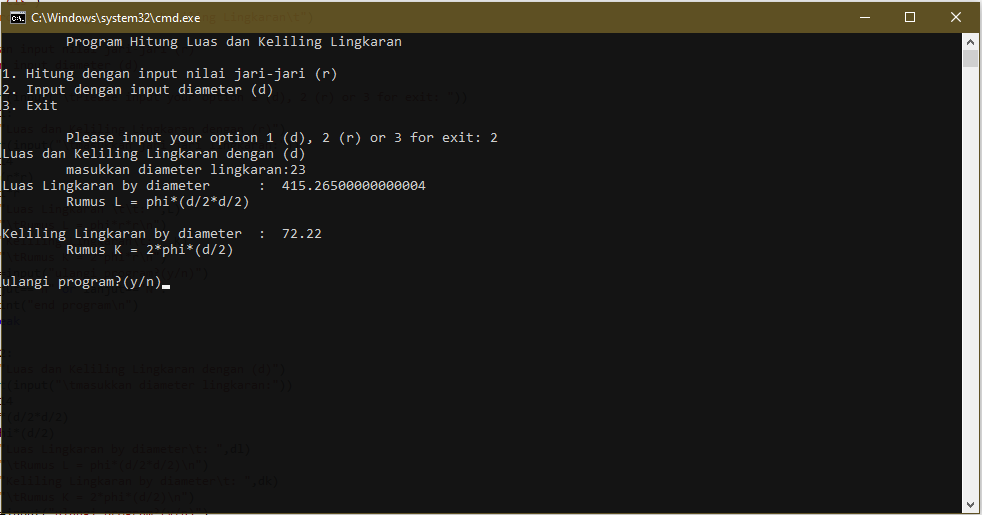
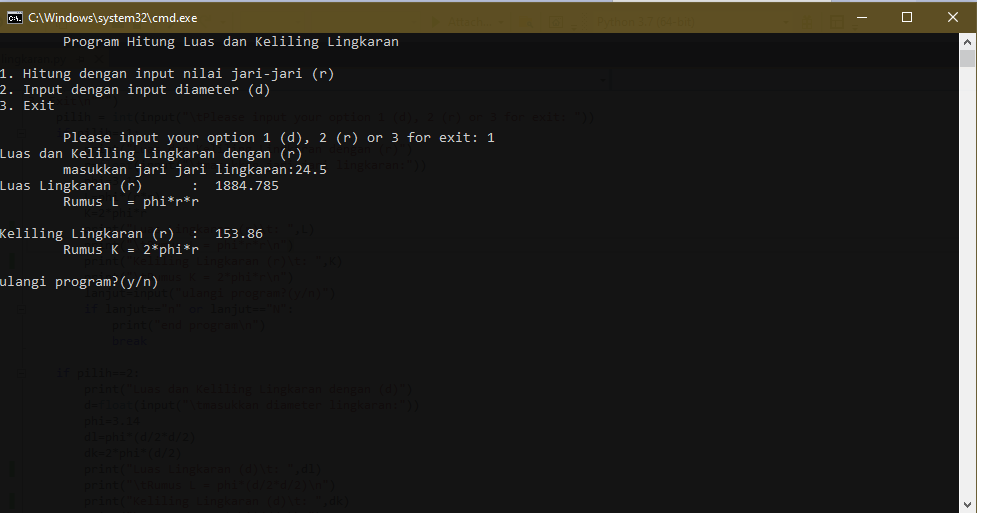
perubahan

diff --git a/README.md b/README.md
@@ -7,17 +7,19 @@
 <p align="center">
 </p>
 
-- TOOLS
-<b>Visual Studio Code<b><P>
-<b>Python 3.10<b><P>
-<b>Windows 10 with 1 TB HDD 8 GB RAM<b><p>
+1. <b>TOOLS<b><p>
+- <b>Visual Studio Code<b><P>
+- <b>Python 3.10<b><p>
+- <b>Windows 10 with 1 TB HDD 8 GB RAM<b><p>
+- <b>Microsoft Visual Studio<b><p>
 
  Rumus Luas Lingkaran phi*r*r atau phi*(d/2)*(d/2)<p>
  Rumus Keliling Lingkaran 2*phi*r atau 2*phi*(d/2)<p>
 
 Program ini berjalan apabila user sudah memilih angka 1,2 atau 3 (keluar program) untuk mulai memanggil program untuk menghitung luas dan keliling lingkaran berdasarkan jari-jari dan diameter lingkaran.<p>
+</p>
 
-- <b>Flowchart<b><p>
+2. <b>Flowchart<b><p>
 
 <b>Flowchart atau cara kerja pemanggilan program sebagai berikut:<b><p>
 
@@ -25,7 +27,7 @@ Program ini berjalan apabila user sudah memilih angka 1,2 atau 3 (keluar program
 <img src="https://github.com/ariandto/program_Luaskelilinglingkaran/blob/main/pic/sc12.png"/>
 </p>
 
-Source kode<p>
+3. <b>Source code<b><p>
 
 ```
 while True:
@@ -43,9 +45,9 @@ while True:
         phi=3.14
         L=phi*(r*r)
         K=2*phi*r
-        print("Luas Lingkaran \t\t: ",L)
+        print("Luas Lingkaran (r)\t: ",L)
         print("\tRumus L = phi*r*r\n")
-        print("Keliling Lingkaran\t: ",K)
+        print("Keliling Lingkaran (r)\t: ",K)
         print("\tRumus K = 2*phi*r\n")  
         lanjut=input("ulangi program?(y/n)")
         if lanjut=="n" or lanjut=="N":
@@ -58,9 +60,9 @@ while True:
         phi=3.14
         dl=phi*(d/2*d/2)
         dk=2*phi*(d/2)
-        print("Luas Lingkaran by diameter\t: ",dl)
+        print("Luas Lingkaran (d)\t: ",dl)
         print("\tRumus L = phi*(d/2*d/2)\n")
-        print("Keliling Lingkaran by diameter\t: ",dk)
+        print("Keliling Lingkaran (d)\t: ",dk)
         print("\tRumus K = 2*phi*(d/2)\n")
         lanjut=input("ulangi program?(y/n)")
         if lanjut=="n" or lanjut=="N":
@@ -72,39 +74,41 @@ while True:
                 print("exit.....")
                 break
 ```
-- Tampilan Program yang sudah dipanggil
+4. <b>Tampilan Program<b><p>
 
+- Menu user untuk menghitung luas dan keliling lingkaran dengan (r) atau (d) 
 <p align="center">
 <img src="https://github.com/ariandto/program_Luaskelilinglingkaran/blob/main/pic/sc13.png"/>
 </p>
 
+- Luas dan keliling lingkaran dengan (r)
 <p align="center">
 <img src="https://github.com/ariandto/program_Luaskelilinglingkaran/blob/main/pic/sc14.png"/>
 </p>
 
+- Luas dan keliling lingkaran dengan (d)
 <p align="center">
 <img src="https://github.com/ariandto/program_Luaskelilinglingkaran/blob/main/pic/sc15.png"/>
 </p>
 
+- Opsi input 3 untuk exit program
 <p align="center">
 <img src="https://github.com/ariandto/program_Luaskelilinglingkaran/blob/main/pic/sc16.png"/>
 </p>
 
-- <b>Notes<b>
+- <b>Notes<b><p>
 ```import os
     os.system("cls")
 ```
-<i>Perintah untuk clear screen setiap blok perintah yang sudah berjalan<i><p>
+- <i>Perintah untuk clear screen setiap blok perintah yang sudah berjalan<i><p>
 
-\t adalah  syntax untuk menambah tabulasi atau tab sedangkan \n untuk menambah baris.<p>
+- \t adalah  syntax untuk menambah tabulasi atau tab sedangkan \n untuk menambah baris.<p>
 
-- <b>Cara kerja program<b>
-User memasukkan pilihan 1, 2 atau 3<p>
-Ada opsi untuk hitung diameter dengan input d dan jari-jari dengan input r saja. Untuk kasus ini saya permudah user dengan tidak mengurangi konsistensi program<p>
-Jika program sudah menampilkan luas dan keliling lingkaran makan user akan dihadapkan untuk mengulangi program (Y,y) atau menghentikan program (N,n)<p>
-Jika ada kritik dan saran silahkan hubungi saya melalui email ariandto@gmail.com<p>
+- Program ini berjalan dengan perulangan dan percabangan<p>
+
+5. <b>Cara kerja program<b>
+- User memasukkan pilihan 1, 2 atau 3<p>
+- Ada opsi untuk hitung diameter dengan input d dan jari-jari dengan input r saja. Untuk kasus ini saya permudah user dengan tidak mengurangi konsistensi program<p>
+- Jika program sudah menampilkan luas dan keliling lingkaran makan user akan dihadapkan untuk mengulangi program (Y,y) atau menghentikan program (N,n)<p>
+- Jika ada kritik dan saran silahkan hubungi saya melalui email ariandto@gmail.com<p>
 <b>Salam, tiada kata terlambat untuk belajar<b><p>
-
-
-
-
